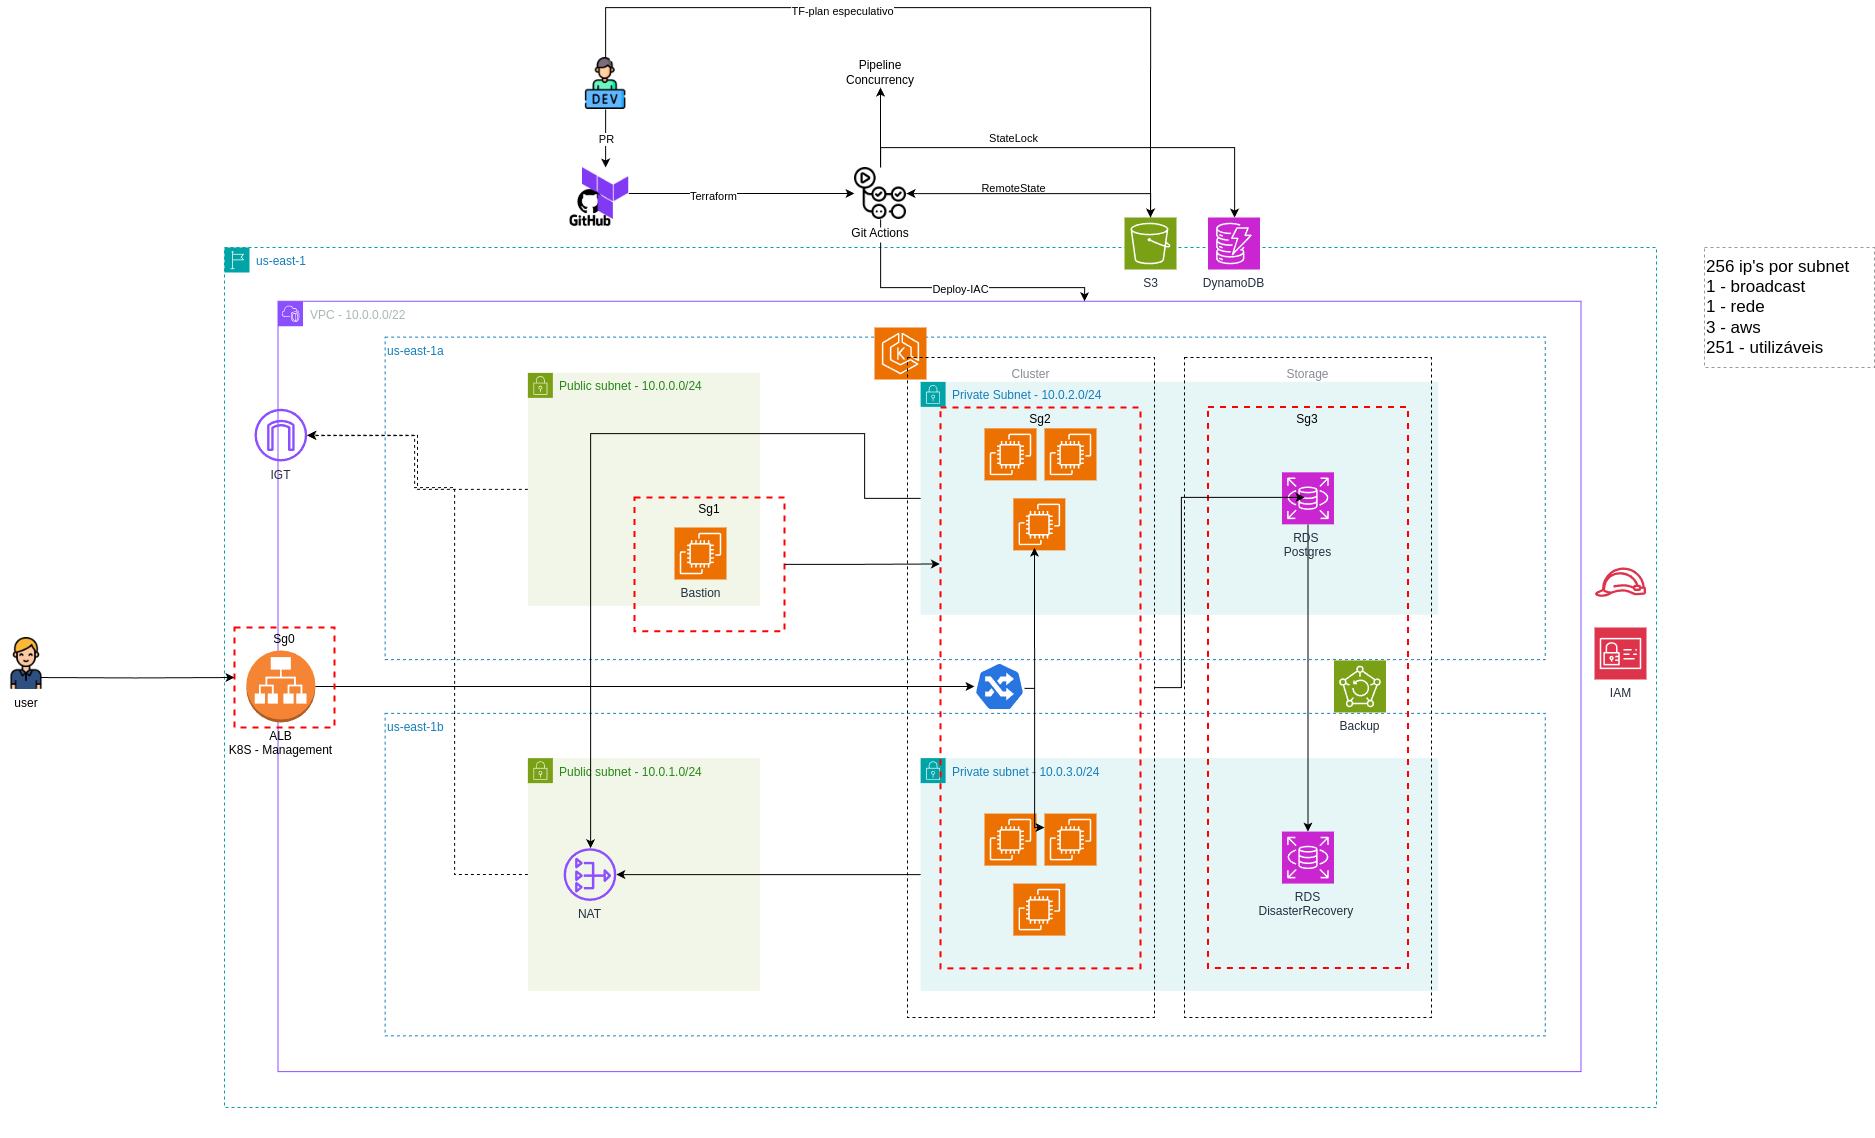
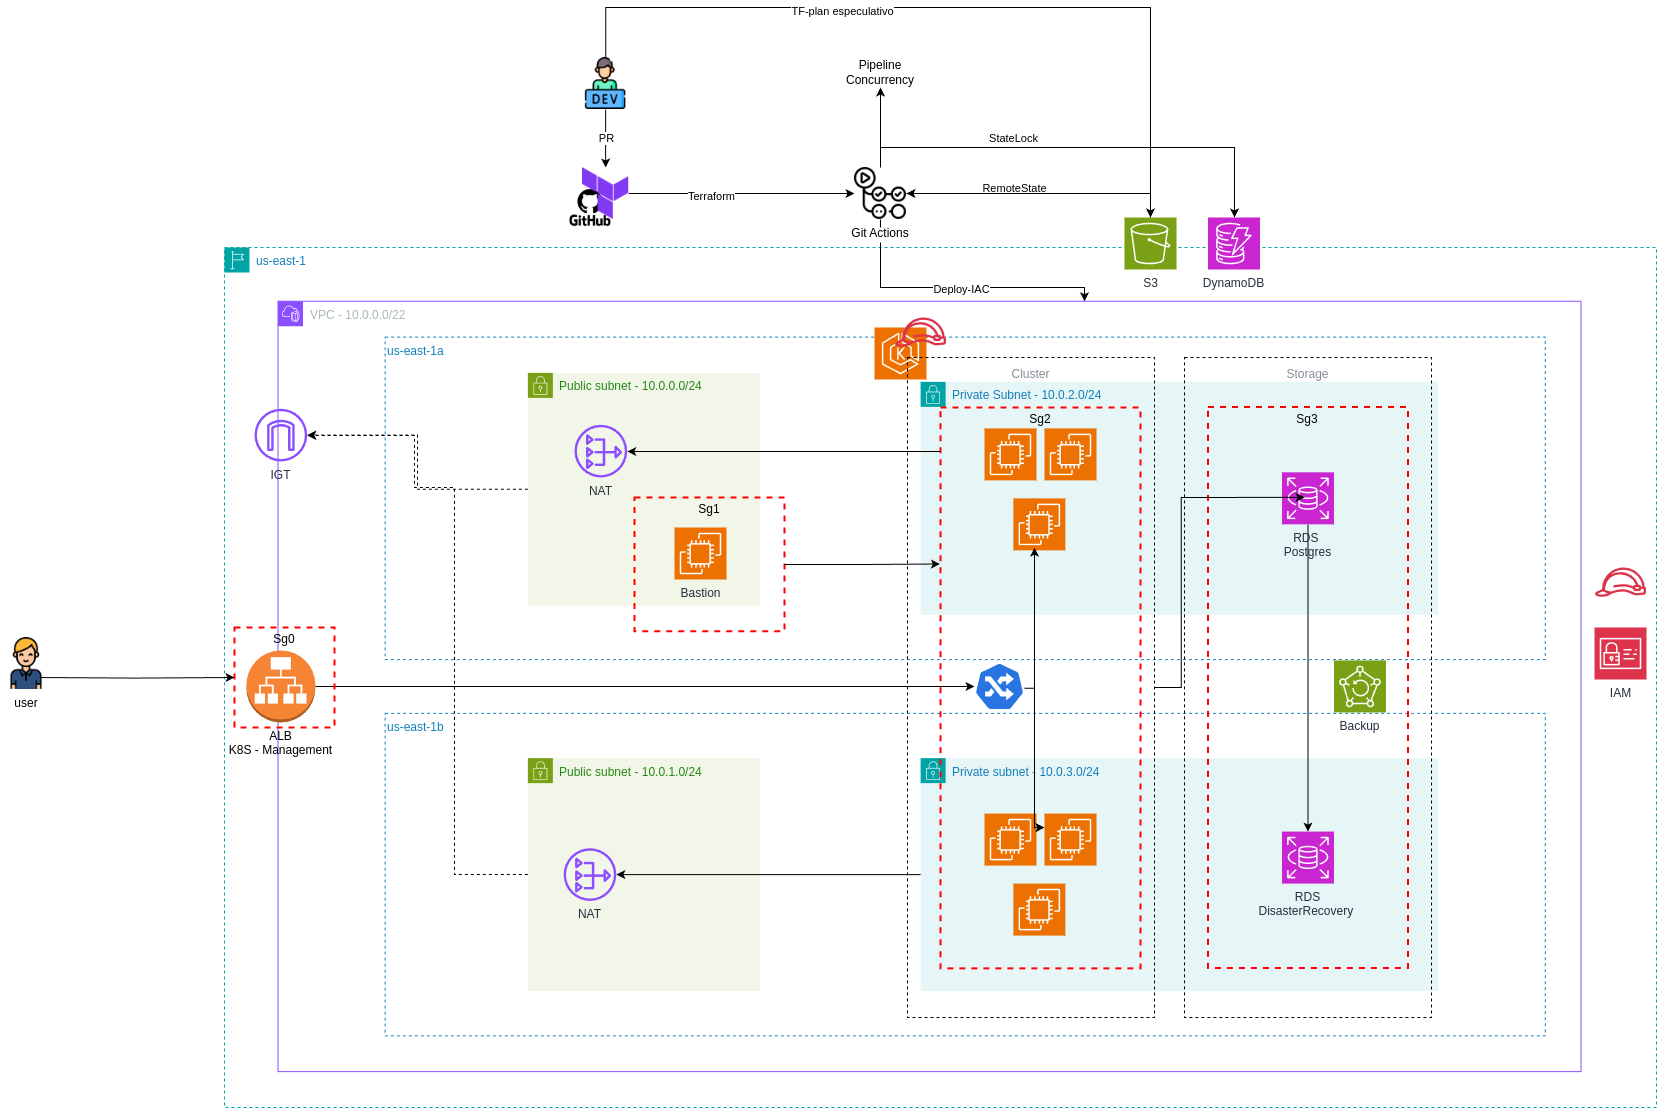
docs: Atualiza diagramas de arquitetura

diff --git a/README.md b/README.md
@@ -1,69 +1,105 @@
 ### Objetivos
 - Prática de IAC com Terraform e Cloud AWS.
     - Terraform deve ser modular
-- Deve prover RemoteState e StateLock.
+    - Deve prover RemoteState e StateLock.
+    - Git deve ser a fonte de verdade
+    - Deve permitir deploy multi-ambiente
+        - Ambiente dev o mais próximo possível de prod.
+        - Dev: Dimensão menor de recursos, algumas features de resiliência e disponibilidade desabilitadas por billing 
+            - exemplo: **Prod** RDS com DR multi-az **Dev** RDS apenas com backup.
 - Usar pipeline para deployar infra.
+    - Github Actions
 - Prover um ambiente base para laboratórios kubernetes.
 - O laboratório deve estar documentado e ser replicável
     - Dados sensíveis não devem estar no repositório, documentação deve apontar sua necessidade quando houver.
 
 
-### Diagrama de Arquitetura dos Recursos AWS - Production
+### Tecnologias usadas:
 
-![Diagrama da Arquitetura em PRD](/docs/aws-prd-diagram.png)
+![Terraform](https://img.shields.io/badge/terraform-%235835CC.svg?style=for-the-badge&logo=terraform&logoColor=white) ![AWS](https://img.shields.io/badge/AWS-%23FF9900.svg?style=for-the-badge&logo=amazon-aws&logoColor=white) ![GitHub](https://img.shields.io/badge/github-%23121011.svg?style=for-the-badge&logo=github&logoColor=white) ![GitHub](https://img.shields.io/badge/github-Actions-%23121011.svg?style=for-the-badge&logo=github&logoColor=white) 
+
+
+### Diagrama de Arquitetura dos Recursos AWS - Ambiente Production
+
+![Diagrama da Arquitetura em PRD](/docs/aws-prd-diagram-admin.png)
 
 ### Diagrama Organizations AWS
 - Ambientes baseados em multi-account usando aws organizations
 
-![Diagrama Estrutura Organizations](./docs/aws-org-diagram.png)
+![Diagrama Estrutura Organizations](./docs/aws-organizations-diagram.png)
 
-## Security Groups
-- Egress full allow 0.0.0.0/0
-### SG-0
-- Ingress 80/443 full allow 0.0.0.0/0
-### SG-01
-- Ingress 22 MyIp 
-- Ingress 5432 from SG-03
-### SG-02
-- Ingress 22 from SG-01
-- Ingress 5432 from SG-03ws
-- Ingress 80/443 from SG-0
-### SG-03
-- Ingress 5432 from SG-02
-- Ingress 5432 from SG-01
+### Gitflow
+
+![Diagrama gitflow](./docs/gitflow-diagram.png)
+
+- Main representando verdade do ambiente prod
+    - Usado branch protection
+    - implantação via pr com exigência de approve por revisor
+    - Apenas no laborátorio foi permitido self-revision, em ambiente real quem submete não aprova.
+- Dev representando a verdade do ambiente dev
+    - a partir da dev sai as branchs de desenvolvimento.
 
 
 
-### Documentação
 
+### Justificativas da abordagem: 
+
+## GitActions
+- uso de environment
+    - Facilita o gerenciamento e isolamento de ambientes
+    - Permite o uso de váriaveis especificas para o ambiente, isso facilita o reaproveitamento de workflows que fazem a mesma coisa para ambientes diferentes.
+    - Permite proteger as branchs, ou seja, **somente a branch que representa aquele ambiente implanta recursos**, além de regras mais refinadas.
+    - Obrigar o codereview antes de um apply, desde approve simples, até refinados como codeOwner, impedir self-review, impedir admin-bypass.
+- Uso de workflow_call
+    - Permite reaproveitar um mesmo workflow em diversas lógicas, evitando repetição de código.
+- Uso de actions script 
+    - Para fazer um resumo do plan e colocar como evidência no pr para facilitar o Review
+    - Apontando no PR recursos que sofrerão alterações e dando enfase nos recursos sensíveis, exemplo banco de dados.
+- Uso de artifact
+    - Para armazenar o plano completo, caso precise de um review mais cuidadoso
+
+
+## AWS
+
+### Security Groups (SG)
+- Pensado na idéia de reduzir superficie de ataque, onde cada SG aceita apenas o trafego necessário.
+    - Exemplo: Banco de dados Postgres não precisa abrir portas 22, 3306, 443 etc..
+        - Se abre a 5432 é apenas para o SG do recurso que vai consumir o banco.
+- Usuário com ponto de entrada apenas pelo LoadBalancer.
+
+| Security Group | Egress Rules               | Ingress Rules                                                                 |
+|----------------|----------------------------|-------------------------------------------------------------------------------|
+| **All SGs**    | Allow all (0.0.0.0/0)      | -                                                                             |
+| **SG-0**       | -                          | Allow 80/443 from 0.0.0.0/0                                                   |
+| **SG-01**      | -                          | Allow 22 from restricted-ip<br>Allow 5432 from SG-03                          |
+| **SG-02**      | -                          | Allow 22 from SG-01<br>Allow 5432 from SG-03<br>Allow 80/443 from SG-0        |
+| **SG-03**      | -                          | Allow 5432 from SG-02<br>Allow 5432 from SG-01                                |
+
+
+### Organizations
+- 
+
+
+### Documentação de referência
+
+- [Github Actions ](https://docs.github.com/en/actions)
+- [Terraform](https://developer.hashicorp.com/terraform/language)
+- [Terraform Provider](https://registry.terraform.io/providers/hashicorp/aws/latest)
+- [AWS - EKS](https://docs.aws.amazon.com/eks/latest/best-practices/introduction.html)
 - [Instâncias RDS ](https://aws.amazon.com/pt/rds/instance-types/)
 
-### Links provider
-- [VPC](https://registry.terraform.io/providers/hashicorp/aws/latest/docs/resources/vpc)
-- [Subnet](https://registry.terraform.io/providers/hashicorp/aws/latest/docs/resources/subnet)
-- [IGW](https://registry.terraform.io/providers/hashicorp/aws/latest/docs/resources/internet_gateway)
-- [IGW - Attach](https://registry.terraform.io/providers/hashicorp/aws/latest/docs/resources/internet_gateway_attachment)
-- [Nat Gateway](https://registry.terraform.io/providers/hashicorp/aws/latest/docs/resources/nat_gateway)
+### Necessário criar policys para EKS controlar seus nós
+- Necessário criar a acces-entry para o admin do cluster
 
-- [Route Table](https://registry.terraform.io/providers/hashicorp/aws/latest/docs/resources/route_table)
-- [Security Group](https://registry.terraform.io/providers/hashicorp/aws/latest/docs/resources/security_group)
-
-
-- [Roles IAM para EKS](https://docs.aws.amazon.com/eks/latest/userguide/cluster-iam-role.html)
-- [EKS add-ons](https://docs.aws.amazon.com/eks/latest/userguide/workloads-add-ons-available-eks.html)
-
-- [RDS](https://registry.terraform.io/providers/hashicorp/aws/latest/docs/resources/db_instance)
-
-
-### Além das policys é necessário criar o acces entry
-![alt text](./docs/access-entry.png)
 
 ### Utils
+
+[LENS - GUI para gerenciar cluster kubernetes](https://k8slens.dev/)
 
 - Adicionar cluster eks ao kubeconfig
 
 ```
-aws eks update-kubeconfig --region us-east-1 --name eks-cluster --alias devopslabs
+aws eks update-kubeconfig --region us-east-1 --name <nomeCluster> --alias <ApelidoCluster>
 ```
 
 - Listar access policies
@@ -78,7 +114,7 @@ aws eks list-access-entries --cluster-name <NomeCluster>
 ```
 aws eks list-associated-access-policies --cluster-name <NomeCluster> --principal-arn <arnDoPrincipalRetornadoPeloComandoAnterior>
 ```
-- Estrutura de diretórios
+- Estrutura de diretórios Terraform
 ```bash
 .
 ├── modules
@@ -108,11 +144,4 @@ aws eks list-associated-access-policies --cluster-name <NomeCluster> --principal
 ├── variables.tf
 ├── output.tf
 └── main.tf
-```
-``` bash
-terraform apply -var-file /environments/dev/terraform.tfvars
-terraform apply -var-file /environments/prod/terraform.tfvars
-
-terraform destroy -var-file /environments/dev/terraform.tfvars
-terraform destroy -var-file /environments/prod/terraform.tfvars
 ```
